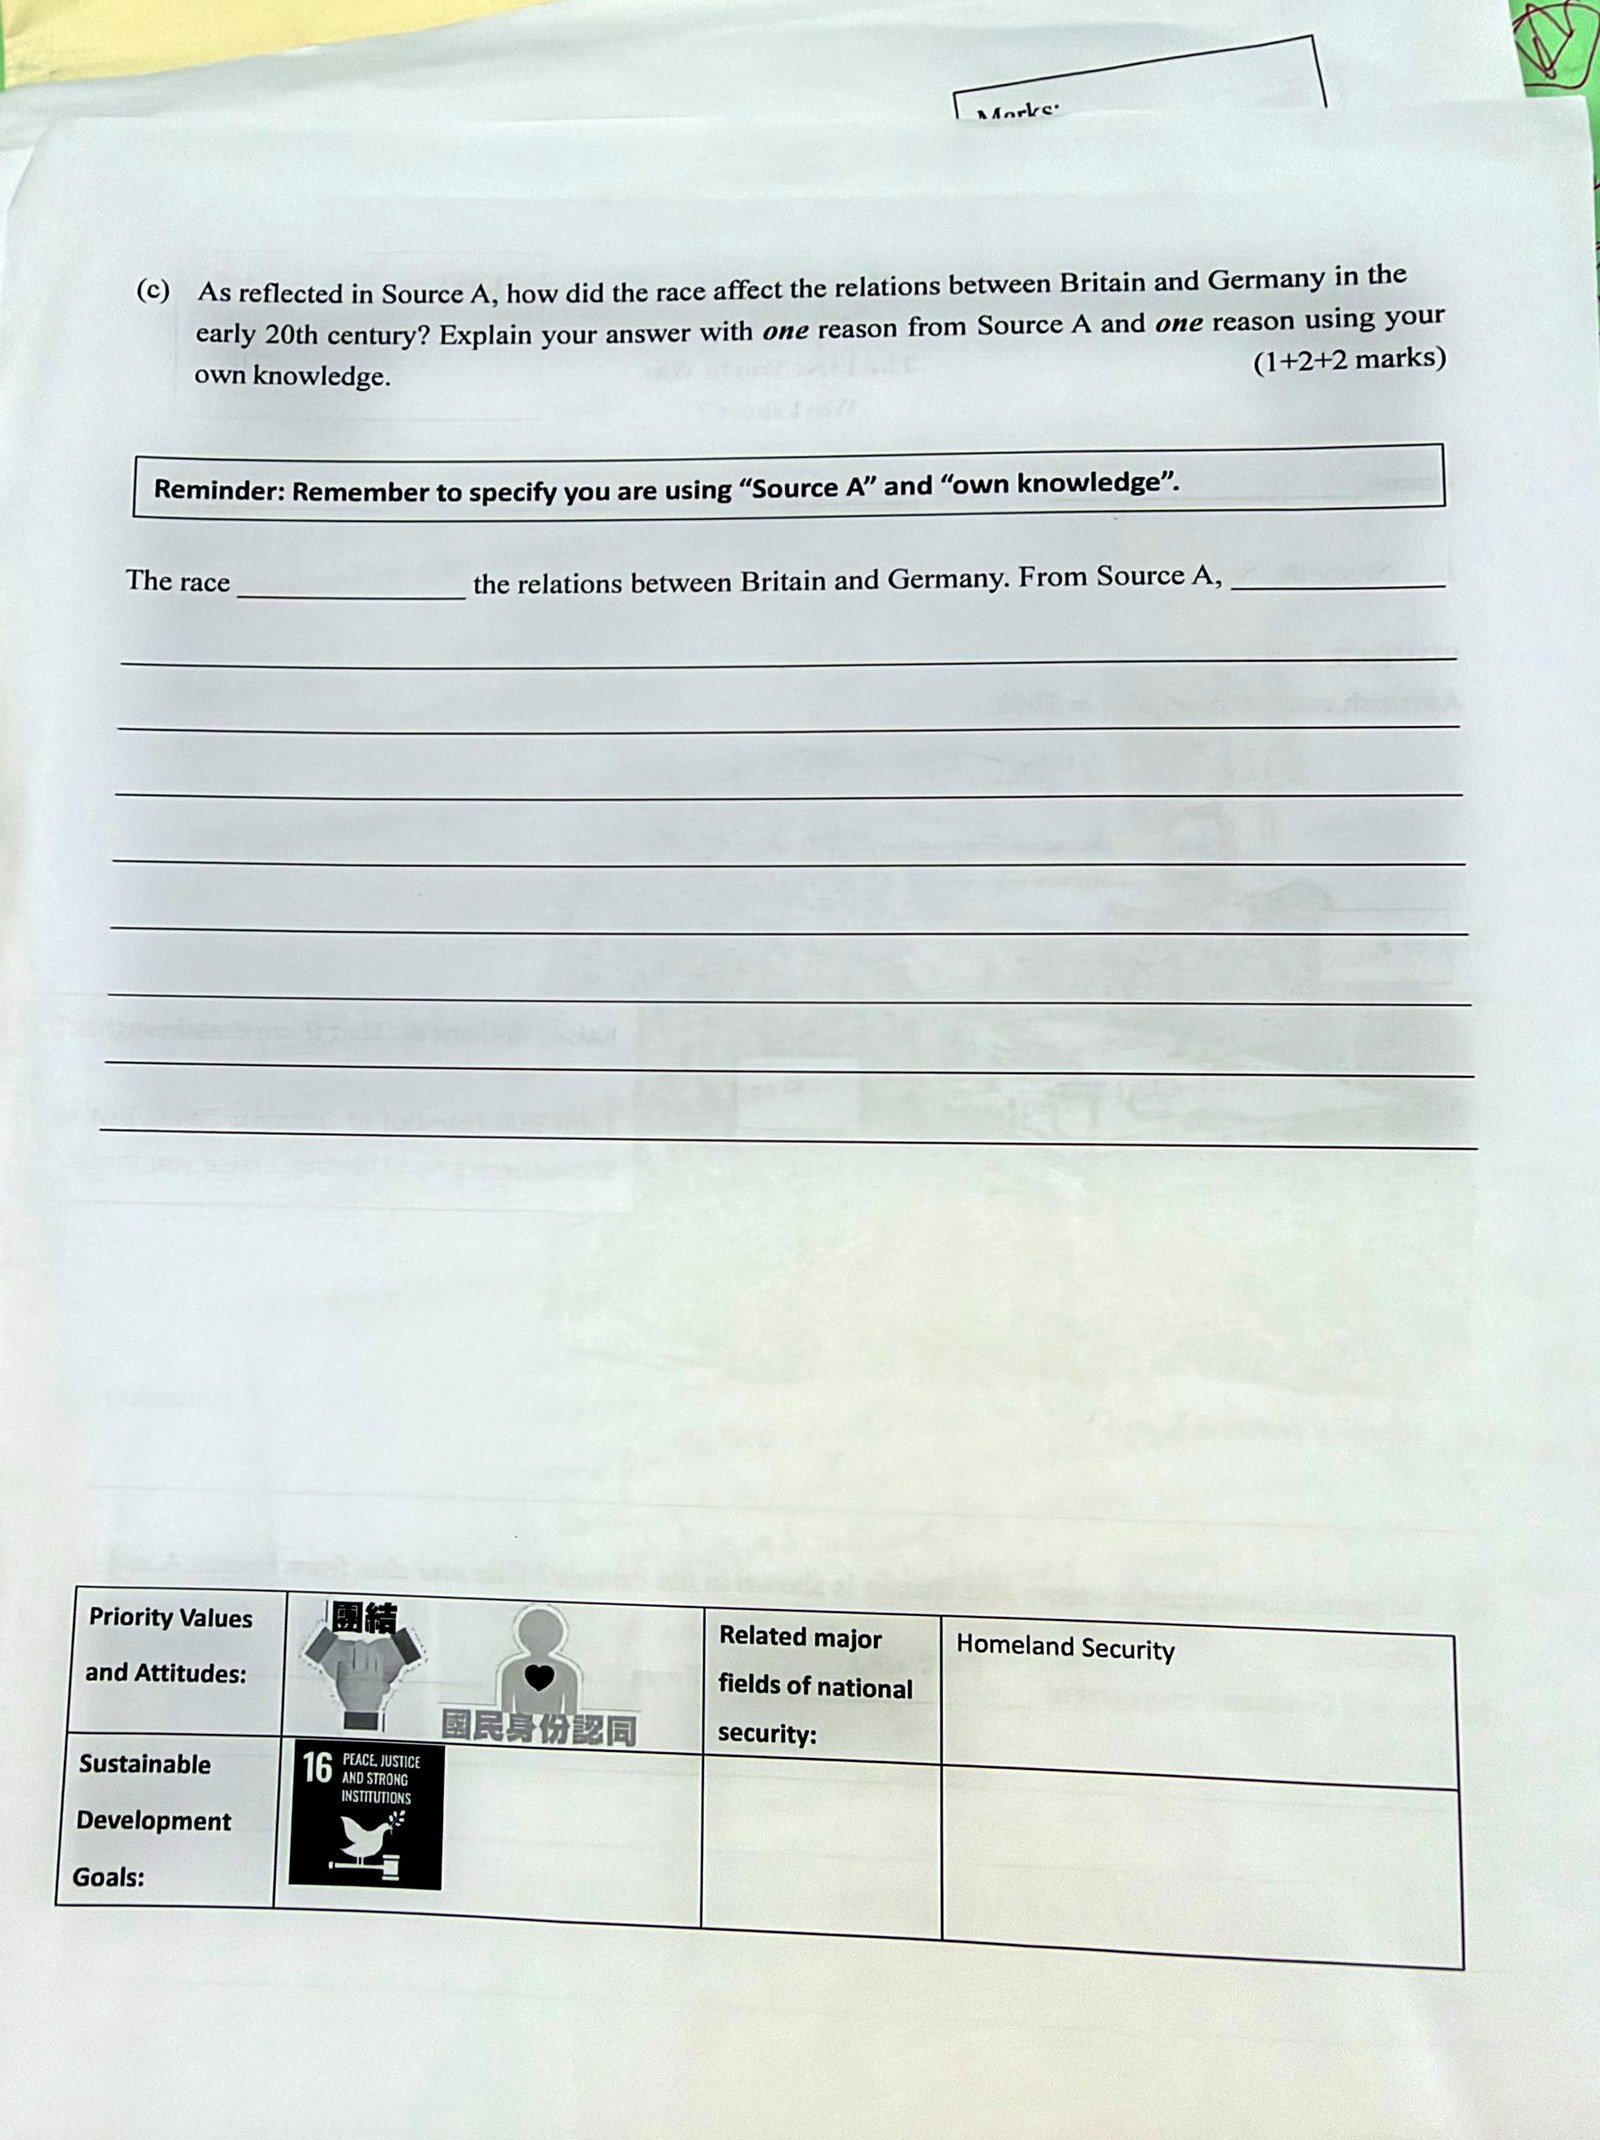
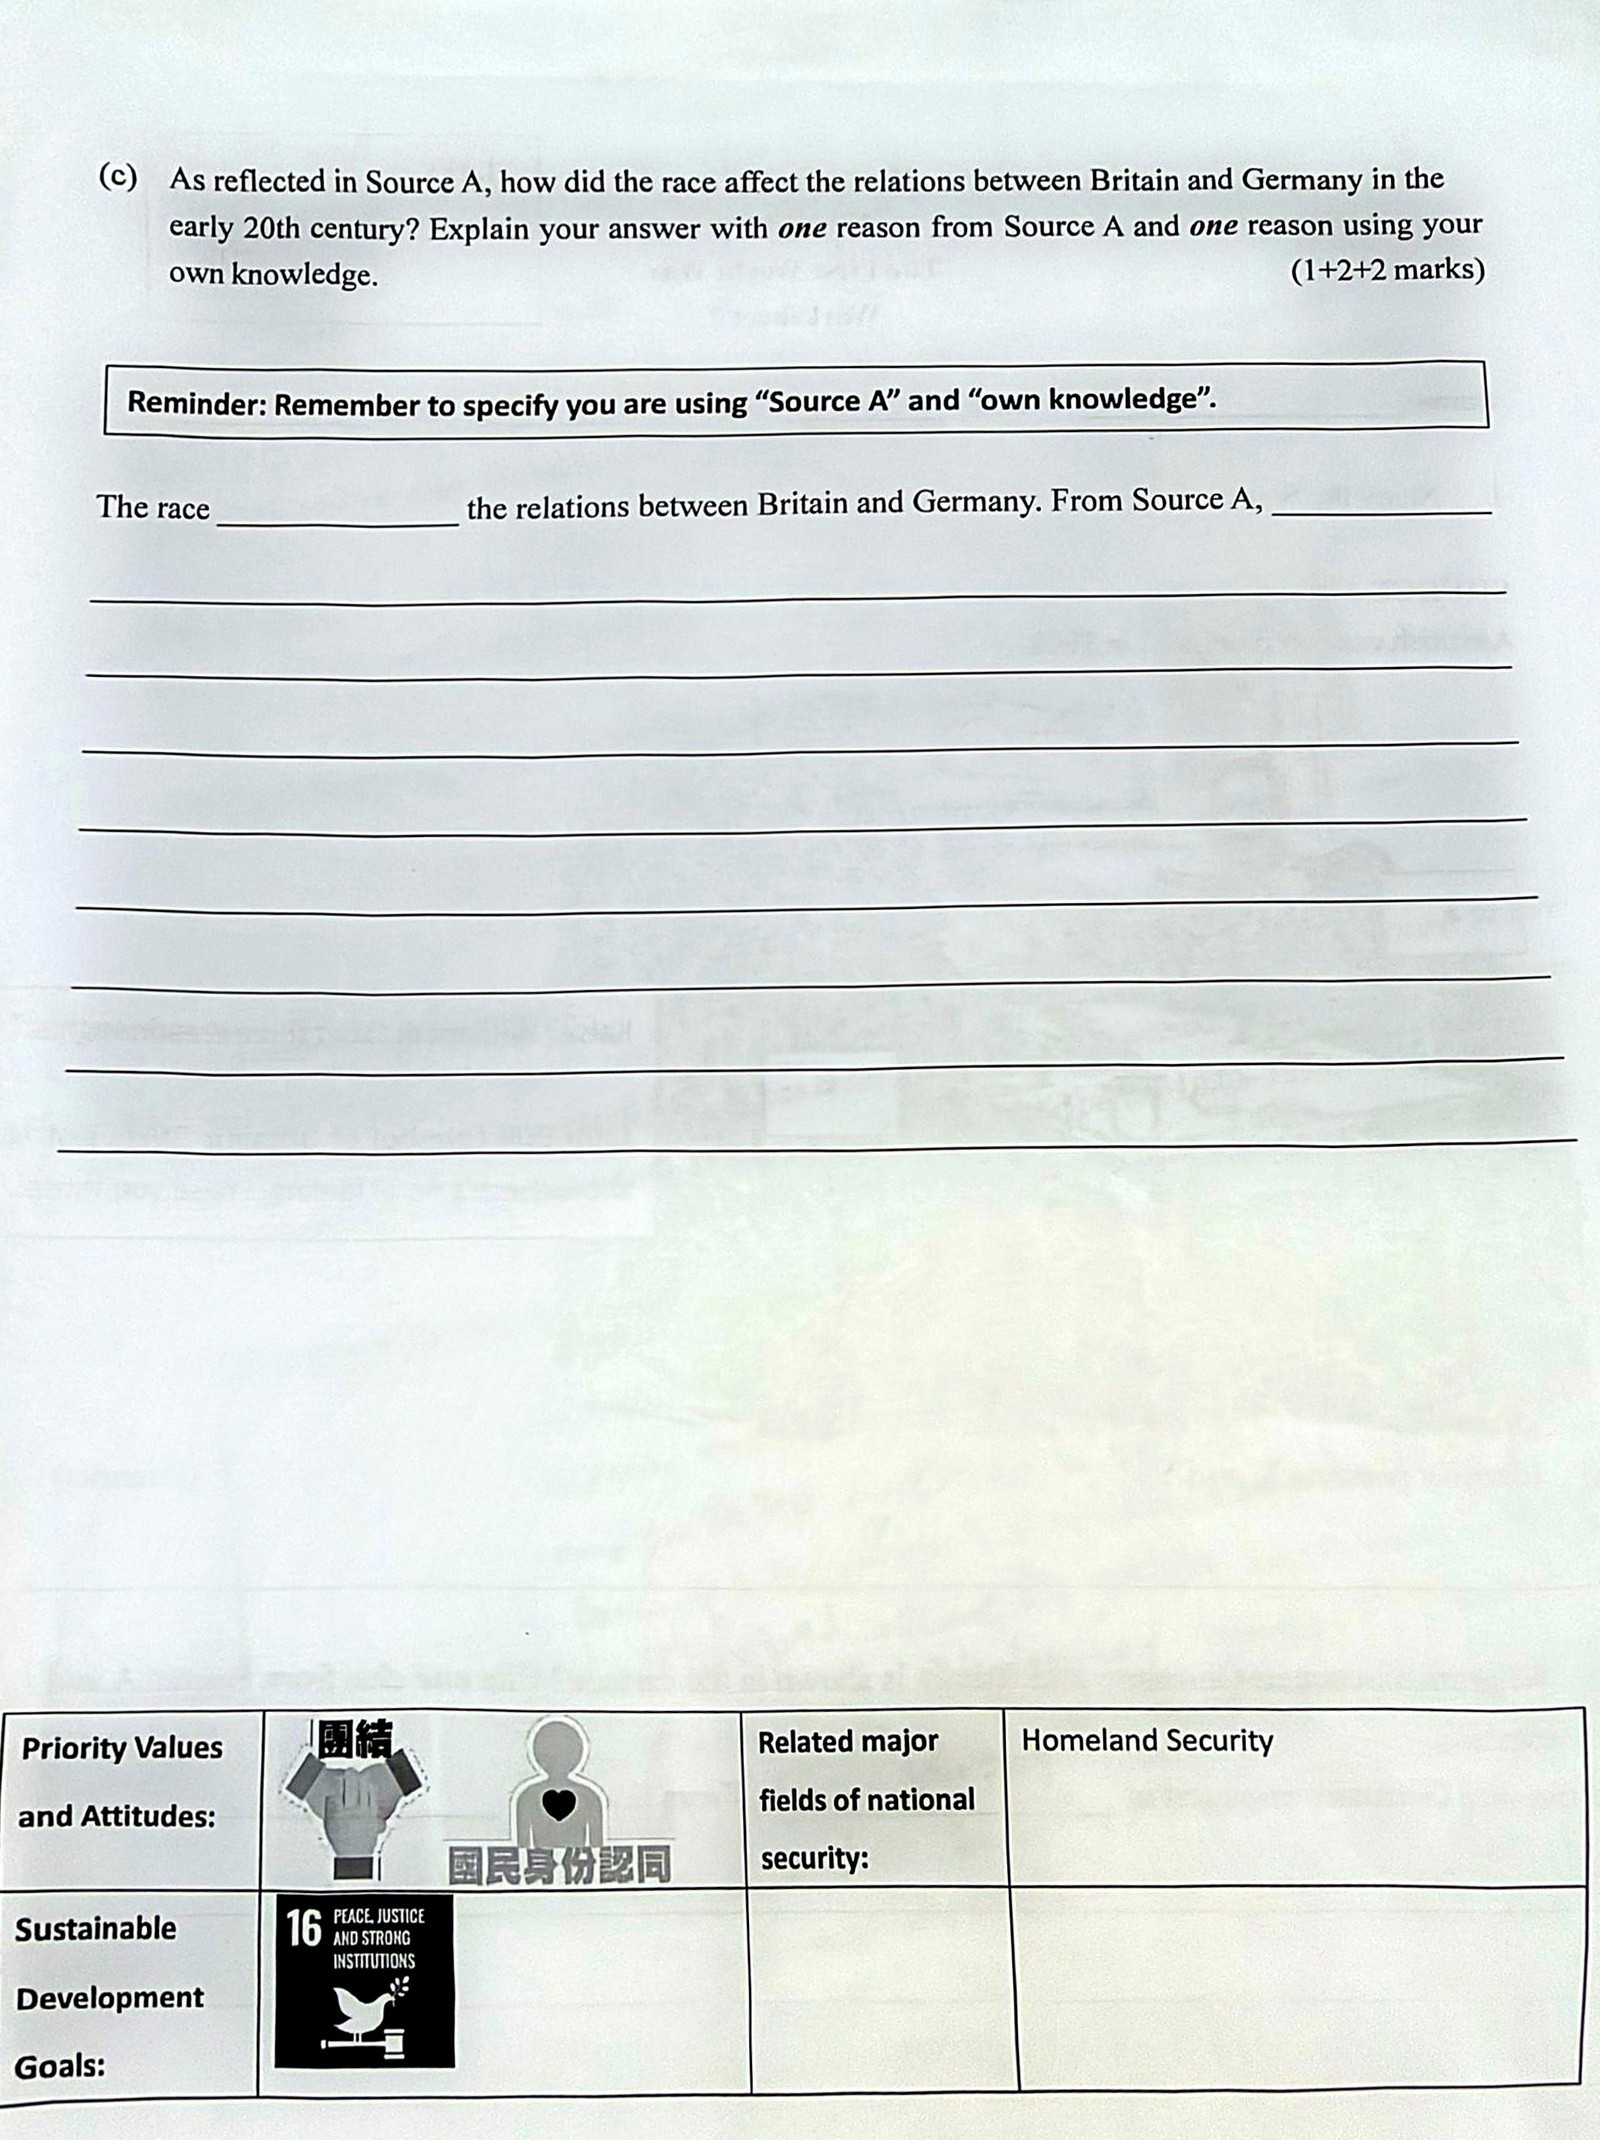
update v4yr8p: rescanned WS2 flats v2

diff --git a/v4yr8p/index.html b/v4yr8p/index.html
@@ -1,7 +1,7 @@
 <!DOCTYPE html>
 <html lang="zh-Hant">
 <head>
-<!-- hist-ws2 dreadnoughts how-to-fill -->
+<!-- hist-ws2 scanned flats v2 -->
 <script>if(location.protocol==="http:")location.replace("https://"+location.host+location.pathname+location.search);</script>
 <meta charset="utf-8">
 <meta name="viewport" content="width=device-width,initial-scale=1">
@@ -201,11 +201,10 @@ if(document.readyState==="loading") document.addEventListener("DOMContentLoaded"
 #tocbtn{border-color:#1e3a8a!important;color:#1e3a8a;font-weight:900}
 #tocmenu{position:fixed;z-index:90;display:none;background:#fff;border:3px solid #0b0c0c;border-radius:12px;box-shadow:0 14px 36px rgba(15,23,42,.22);padding:6px;max-height:74vh;overflow:auto;width:min(460px,92vw)}
 #tocmenu.open{display:block}
-#tocmenu button{display:block;width:100%;text-align:left;border:0;background:#fff;font-family:inherit;font-size:.9rem;padding:7px 10px;border-radius:8px;cursor:pointer;font-weight:700;color:#0b0c0c}
+#tocmenu button{display:block;width:100%;text-align:left;border:0;background:#fff;font-family:inherit;font-size:.9rem;padding:7px 10px;border-radius:8px;cursor:pointer;font-weight:700}
 #tocmenu button:hover{background:#eff6ff}#tocmenu button.cur{background:#1e3a8a;color:#fff}
 #tocmenu .qh{font-size:.72rem;font-weight:900;color:#64748b;padding:8px 10px 2px}
 #tocmenu .qz{display:none;font-weight:500;font-size:.78rem;color:#6b4e16}body.zhon #tocmenu .qz{display:block}
-#tocmenu button.cur .qz{color:#ffe9a8}
 #board .note{border-left:6px solid #1d4ed8;background:linear-gradient(90deg,#eff6ff,#fff);padding:8px 10px;margin:6px 0;border-radius:8px}
 #board .note.pen-red{border-left-color:#dc2626;background:linear-gradient(90deg,#fef2f2,#fff)}
 #board .note.pen-purple{border-left-color:#7c3aed;background:linear-gradient(90deg,#f5f3ff,#fff)}
@@ -216,14 +215,14 @@ if(document.readyState==="loading") document.addEventListener("DOMContentLoaded"
 #board .note .nh{background:#fef08a;padding:0 4px;border-radius:3px}
 #quizmask{position:fixed;inset:0;background:rgba(15,23,42,.55);z-index:200;display:none;align-items:center;justify-content:center;padding:16px}
 #quizmask.on{display:flex}
-#quizbox{background:#fff;border:3px solid #0b0c0c;border-radius:16px;max-width:560px;width:100%;padding:18px 18px 14px;box-shadow:0 20px 50px rgba(0,0,0,.35)}
-#quizbox h3{margin:0 0 8px;font-size:1.05rem;color:#1e3a8a}
+#quizbox{background:#fff;border:3px solid #0b0c0c;border-radius:16px;max-width:560px;width:100%;padding:18px;box-shadow:0 20px 50px rgba(0,0,0,.35)}
+#quizbox h3{margin:0 0 8px;color:#1e3a8a}
 #quizq{font-weight:800;font-size:1.05rem;margin:0 0 12px}
 #quizopts button{display:block;width:100%;text-align:left;margin:0 0 8px;padding:10px 12px;border:2px solid #cbd5e1;border-radius:10px;background:#f8fafc;font-weight:700;cursor:pointer;font-family:inherit}
 #quizopts button:hover{border-color:#1e3a8a;background:#eff6ff}
 #quizopts button.ok{border-color:#16a34a;background:#dcfce7}
 #quizopts button.bad{border-color:#e11d48;background:#ffe4e6}
-#quizwhy{display:none;margin-top:8px;padding:10px;border-radius:10px;background:#f1f5f9;font-size:.92rem}
+#quizwhy{display:none;margin-top:8px;padding:10px;border-radius:10px;background:#f1f5f9}
 #quizwhy.on{display:block}
 #quizmeta{font-size:.78rem;color:#64748b;margin-bottom:8px;font-weight:700}
 #quiznext{margin-top:10px;background:#1e3a8a;color:#fff;border:0;border-radius:10px;padding:10px 14px;font-weight:900;cursor:pointer;display:none}
@@ -241,7 +240,7 @@ if(document.readyState==="loading") document.addEventListener("DOMContentLoaded"
 <div class="top">
   <div class="row">
     <span class="tag" id="tag">Start</span><span class="sec" id="sec"></span><span class="num" id="num"></span>
-    <span class="legend">一頁一刻 · 彩筆 · 撳筆記返來源 · 跟段練習 · 自己動筆</span>
+    <span class="legend">已掃描白底 · 一頁一刻 · 彩筆 · 自己動筆</span>
     <div id="tocmenu"></div><div class="ctrl"><button id="tocbtn">目錄 ▾</button><button id="zhbtn">中文</button><button id="prev">← Back</button><button id="play" class="main">▶ Play</button><button id="next">Next →</button></div>
   </div>
   <p class="say" id="say"></p>
@@ -250,14 +249,14 @@ if(document.readyState==="loading") document.addEventListener("DOMContentLoaded"
 <div class="grid">
   <div class="col">
     <h2>材料（鏡頭只對準這段）<span id="tbname"></span></h2>
-    <div class="cam" id="tcam"><div class="stage" id="st_ws2a"><img data-src="p/ws2a.jpg" alt="Worksheet 2 · Source A + Q(a)(b)"></div><div class="stage" id="st_ws2b"><img data-src="p/ws2b.jpg" alt="Worksheet 2 · Q(c)"></div></div>
+    <div class="cam" id="tcam"><div class="stage" id="st_ws2a"><img data-src="p/ws2a.jpg?v=2" alt="Worksheet 2 · Source A + Q(a)(b)"></div><div class="stage" id="st_ws2b"><img data-src="p/ws2b.jpg?v=2" alt="Worksheet 2 · Q(c)"></div></div>
   </div>
   <div class="col">
     <h2>筆記板（只這一點）<span id="wbname"></span></h2>
-    <div class="cam" id="wcam"><div class="stage" id="st_note"><img data-src="p/note.jpg" alt="One-page note"></div></div>
+    <div class="cam" id="wcam"><div class="stage" id="st_note"><img data-src="p/note.jpg?v=2" alt="One-page note"></div></div>
   </div>
   <div class="col">
-    <div class="teach" id="teach"><div class="bh">你的腦這樣想</div><div id="teachtext">撳 Play。學點樣填 WS2；講完清板；練習只考本段。紙要你自己寫。</div><div class="zh" id="teachzh"></div></div>
+    <div class="teach" id="teach"><div class="bh">你的腦這樣想</div><div id="teachtext">撳 Play。頁面已 scan.py＋UVDoc 白底。只學方法；紙要你自己寫。</div><div class="zh" id="teachzh"></div></div>
     <div class="board" id="board"><div class="bempty" id="bempty">這一頁只放一個重點。撳筆記＝跳返材料黃框。</div></div>
   </div>
 </div>
@@ -288,7 +287,6 @@ var QUIZ_PER_RUN=10;
  tocBtn.addEventListener("click",function(e){e.stopPropagation();tocEl.classList.toggle("open");if(tocEl.classList.contains("open"))placeToc();});
  tocEl.addEventListener("click",function(e){var b=e.target.closest("button[data-i]"); if(!b)return; var i=+b.getAttribute("data-i"); tocEl.classList.remove("open"); go(i,true);});
  document.addEventListener("click",function(){tocEl.classList.remove("open");});
- window.addEventListener("resize",function(){if(tocEl.classList.contains("open"))placeToc();});
  function paintTocCur(){tocEl.querySelectorAll("button[data-i]").forEach(function(b){b.classList.toggle("cur", +b.getAttribute("data-i")===cur);});}
  (function(){
    var mask=document.createElement("div"); mask.id="quizmask";
@@ -300,8 +298,8 @@ var QUIZ_PER_RUN=10;
    $("quiznext").addEventListener("click", closeQuiz);
    function poolFor(sec){var a=QUIZ_BANK.filter(function(q){return q.sec===sec || q.sec==="all";}); if(a.length<3) a=QUIZ_BANK.slice(); a=a.filter(function(q){return !used[q.q];}); if(!a.length){used={}; a=QUIZ_BANK.filter(function(q){return q.sec===sec || q.sec==="all";}); if(!a.length)a=QUIZ_BANK.slice();} return shuffle(a);}
    function askOne(sec, done){if(shown>=QUIZ_PER_RUN){done();return;} var pool=poolFor(sec); if(!pool.length){done();return;} var item=pool[0]; used[item.q]=1; shown++; answered=false; resume=done; setPlay(false);
-     $("quizmeta").textContent = "本段「"+(LABEL[sec]||sec)+"」· 本題 "+shown+" / "+QUIZ_PER_RUN+" · 題庫 "+QUIZ_BANK.length;
-     $("quizq").textContent = item.q; $("quizwhy").className=""; $("quizwhy").textContent=""; $("quiznext").className="";
+     $("quizmeta").textContent="本段「"+(LABEL[sec]||sec)+"」· 本題 "+shown+" / "+QUIZ_PER_RUN+" · 題庫 "+QUIZ_BANK.length;
+     $("quizq").textContent=item.q; $("quizwhy").className=""; $("quizwhy").textContent=""; $("quiznext").className="";
      var box=$("quizopts"); box.innerHTML=""; var order=item.opts.map(function(op,idx){return {op:op,idx:idx};}); shuffle(order);
      var newAns=0; order.forEach(function(o,i){if(o.idx===item.ans)newAns=i;});
      order.forEach(function(o,idx){var b=document.createElement("button"); b.type="button"; b.textContent=o.op;
